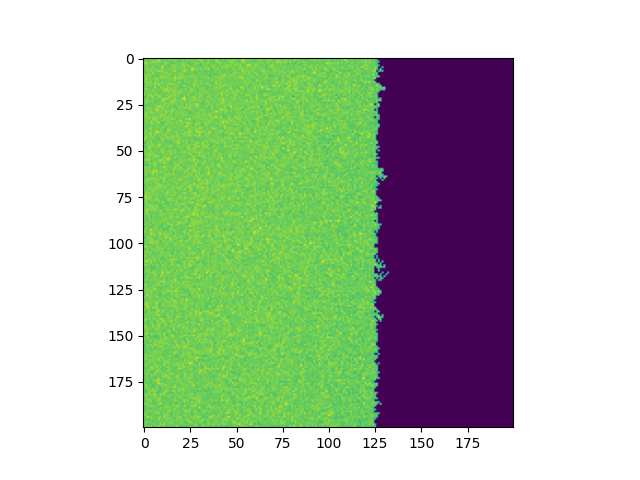
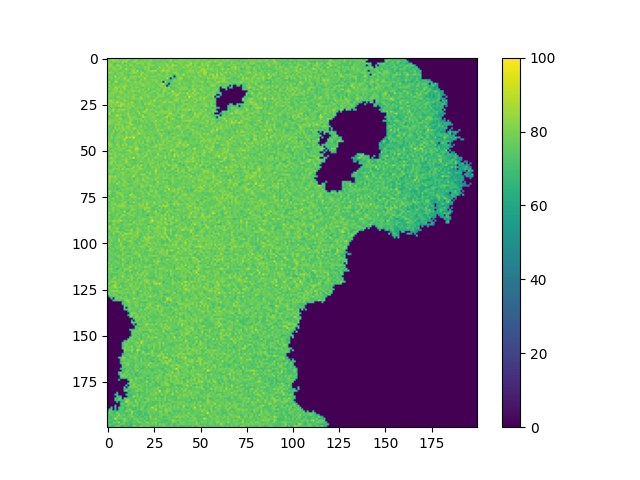
Added Agent class and fixed visualization.

Changed region(s): [[0.0938, 0.0938, 0.875, 0.9375]]

diff --git a/evo_island_main.py b/evo_island_main.py
@@ -6,31 +6,55 @@ import imageio
 
 level_difficulty = {1: 10, 2: 40, 3: 50, 4: 70, 5: 90}
 
-def visualize_matrix(matrix):
+class Agent:
+    def __init__(self, fitness=0, alive=False):
+        self.fitness = fitness
+        self.alive = alive if fitness > 0 else False
+
+    def is_more_fit_than(self, other):
+        return self.fitness > other.fitness
+
+
+#Matrix Creation, Visualization, Saving
+def visualize_world(matrix):
     fig, ax = plt.subplots()
     im = ax.imshow(matrix, cmap='viridis')
     plt.show()
+
+def visualize_agent_matrix(matrix):
+    fig, ax = plt.subplots()
+    im = ax.imshow([[cell.fitness for cell in row] for row in matrix], cmap='inferno')
+    plt.show() 
+
+def transform_matrix(agent_matrix, attribute):
+    return [[getattr(agent, attribute, 0) for agent in row] for row in agent_matrix]
 
 def save_matrix_image(matrix, file_name):
    fig, ax = plt.subplots()
    im = ax.imshow(matrix, cmap='viridis')
    plt.savefig(str(file_name))
+
+def save_agent_matrix_image(matrix, file_name, attribute):
+    # Check if the attribute is valid for the objects in the matrix
+    if not matrix or not hasattr(matrix[0][0], attribute):
+        raise ValueError(f"Attribute '{attribute}' not found in matrix elements")
+
+    # Transform the matrix into a 2D array of the specified attribute
+    transformed_matrix = [[getattr(cell, attribute) for cell in row] for row in matrix]
+
+    fig, ax = plt.subplots()
+    im = ax.imshow(transformed_matrix, cmap='viridis')
+    plt.colorbar(im, ax=ax)  # Optional: Adds a colorbar to the plot
+    plt.savefig(str(file_name))
+    plt.close(fig)
    
 
 def print_matrix(array_2d):
     for row in array_2d:
-        print(' '.join(str(cell) for cell in row))
+        print(' '.join(str(cell.fitness) for cell in row))
 
-def generate_agent_matrix(n):#Initialize empty agent matrix
- 
-    return [[0 for j in range(n)] for i in range(n)]
 
-def generate_island(n, use_perlin_noise=True, randomize_params=True, use_migration_route=True):
-    world = generate_terrain(n, use_perlin_noise, randomize_params)
-    if use_migration_route:
-       world = generate_river(n, world)
-
-    return world
+  #Terrain Generation
 
 def generate_petri_dish(n):
     if n <= 0:
@@ -115,6 +139,12 @@ def generate_river(n, world):
     # Return the world array
     return world
 
+def generate_island(n, use_perlin_noise=True, randomize_params=True, use_migration_route=True):
+    world = generate_terrain(n, use_perlin_noise, randomize_params)
+    if use_migration_route:
+       world = generate_river(n, world)
+
+    return world
 
 def isCoordinateInRange(n, x, y):
     if x < 0 or x >= n:
@@ -123,40 +153,44 @@ def isCoordinateInRange(n, x, y):
         return False
     return True
 
-def isMoreFit(challenger, Occupant):
-    return challenger > Occupant
-    
+#Agent Logic
+def isMoreFit(challenger, occupant):
+    return challenger.is_more_fit_than(occupant)
+
+def generate_agent_matrix(n):
+    return [[Agent() for j in range(n)] for i in range(n)]
+
 def train_new_individual():
     # generate a random number on a normal distribution
-    x = np.random.normal(loc=50, scale=10)
+    fitness = np.random.normal(loc=50, scale=10)
     # scale the number so that it falls within the range of 0 to 100
-    x = max(0, min(100, x))
+    fitness = max(0, min(100, fitness))
     # invert the number so that larger numbers are more rare
-    x = 100 - x
-    return int(x)
+    fitness = 100 - fitness
+    return Agent(int(fitness))
 
 def calc_move(i,j,n, world_matrix, agent_matrix):
    
-   if agent_matrix[i][j]== 0: # check if current cell is populated (max fitness is > 0), if not, do nothing. 
-    return 
-
-   #if occupied, the occupant spawns an offspring
+   current_agent = agent_matrix[i][j]
+   if current_agent.fitness == 0: return # Check if current cell is populated. if is not, skip. Add living or dead bool and update. 
+   
    newIndividual = train_new_individual()
+
 
    diceroll = random.randint(1, 9) #roll for which action the child will take
    #the offspring can move to an adacent valid cell, or challenge the parent for its niche
 
     #Stay at current cell and challenge parent
    if diceroll == 1:  
-    if newIndividual > level_difficulty[world_matrix[i][j]]: #Does the new invidual meet the baseline fitness to occupy the cell?
-        if isMoreFit(newIndividual,agent_matrix[i][j]): #Is the new individual's fitness higher than its parent? 
+    if newIndividual.fitness > level_difficulty[world_matrix[i][j]]: #Does the new invidual meet the baseline fitness to occupy the cell?
+        if newIndividual.is_more_fit_than(current_agent): #Is the new individual's fitness higher than its parent? 
             agent_matrix[i][j] = newIndividual #new individual takes the niche.
             #or nothing happens and it dies. 
 
     #go north
    if diceroll == 2: 
        if isCoordinateInRange(n,i+1,j): #Is the move in range? 
-          if newIndividual > level_difficulty[world_matrix[i+1][j]]: #Does the new invidual meet the baseline fitness to occupy the empty cell?
+          if newIndividual.fitness > level_difficulty[world_matrix[i+1][j]]: #Does the new invidual meet the baseline fitness to occupy the empty cell?
            if isMoreFit(newIndividual,agent_matrix[i+1][j]): #Does the new individual's fitness beat the fitness of the current occupant?
             agent_matrix[i+1][j] = newIndividual #new individual takes the niche. 
             #or nothing happens and it dies. 
@@ -164,7 +198,7 @@ def calc_move(i,j,n, world_matrix, agent_matrix):
     #go south
    if diceroll == 3: 
        if isCoordinateInRange(n,i-1,j): #Is the move in range?
-        if newIndividual > level_difficulty[world_matrix[i-1][j]]: #Does the new invidual meet the baseline fitness to occupy the empty cell?
+        if newIndividual.fitness > level_difficulty[world_matrix[i-1][j]]: #Does the new invidual meet the baseline fitness to occupy the empty cell?
            if isMoreFit(newIndividual,agent_matrix[i-1][j]):
             agent_matrix[i-1][j] = newIndividual #new individual takes the niche.
             #or nothing happens and it dies. 
@@ -172,7 +206,7 @@ def calc_move(i,j,n, world_matrix, agent_matrix):
     #go east
    if diceroll == 4:  
        if isCoordinateInRange(n,i,j+1): #Is the move in range?
-        if newIndividual > level_difficulty[world_matrix[i][j+1]]: #Does the new invidual meet the baseline fitness to occupy the empty cell?
+        if newIndividual.fitness > level_difficulty[world_matrix[i][j+1]]: #Does the new invidual meet the baseline fitness to occupy the empty cell?
            if isMoreFit(newIndividual,agent_matrix[i][j+1]):
             agent_matrix[i][j+1] = newIndividual #new individual takes the niche.
             #or nothing happens and it dies. 
@@ -180,7 +214,7 @@ def calc_move(i,j,n, world_matrix, agent_matrix):
     #go west
    if diceroll == 5:  
        if isCoordinateInRange(n,i,j-1): #Is the move in range?
-        if newIndividual > level_difficulty[world_matrix[i][j-1]]: #Does the new invidual meet the baseline fitness to occupy the empty cell?
+        if newIndividual.fitness > level_difficulty[world_matrix[i][j-1]]: #Does the new invidual meet the baseline fitness to occupy the empty cell?
            if isMoreFit(newIndividual,agent_matrix[i][j-1]):
             agent_matrix[i][j-1] = newIndividual #new individual takes the niche.
             #or nothing happens and it dies. 
@@ -188,7 +222,7 @@ def calc_move(i,j,n, world_matrix, agent_matrix):
     #go northeast
    if diceroll == 6:  
        if isCoordinateInRange(n,i+1,j+1): #Is the move in range?
-        if newIndividual > level_difficulty[world_matrix[i+1][j+1]]: #Does the new invidual meet the baseline fitness to occupy the empty cell?
+        if newIndividual.fitness > level_difficulty[world_matrix[i+1][j+1]]: #Does the new invidual meet the baseline fitness to occupy the empty cell?
            if isMoreFit(newIndividual,agent_matrix[i+1][j+1]):
             agent_matrix[i+1][j+1] = newIndividual #new individual takes the niche.
             #or nothing happens and it dies. 
@@ -196,7 +230,7 @@ def calc_move(i,j,n, world_matrix, agent_matrix):
     #go northwest
    if diceroll == 7:  
        if isCoordinateInRange(n,i+1,j-1): #Is the move in range?
-        if newIndividual > level_difficulty[world_matrix[i+1][j-1]]: #Does the new invidual meet the baseline fitness to occupy the empty cell?
+        if newIndividual.fitness > level_difficulty[world_matrix[i+1][j-1]]: #Does the new invidual meet the baseline fitness to occupy the empty cell?
            if isMoreFit(newIndividual,agent_matrix[i+1][j-1]):
             agent_matrix[i+1][j-1] = newIndividual #new individual takes the niche.
             #or nothing happens and it dies. 
@@ -204,7 +238,7 @@ def calc_move(i,j,n, world_matrix, agent_matrix):
     #go southeast
    if diceroll == 8:  
        if isCoordinateInRange(n,i-1,j+1): #Is the move in range?
-        if newIndividual > level_difficulty[world_matrix[i-1][j+1]]: #Does the new invidual meet the baseline fitness to occupy the empty cell?
+        if newIndividual.fitness > level_difficulty[world_matrix[i-1][j+1]]: #Does the new invidual meet the baseline fitness to occupy the empty cell?
            if isMoreFit(newIndividual,agent_matrix[i-1][j+1]):
             agent_matrix[i-1][j+1] = newIndividual #new individual takes the niche.
             #or nothing happens and it dies. 
@@ -212,7 +246,7 @@ def calc_move(i,j,n, world_matrix, agent_matrix):
     #go southwest
    if diceroll == 9:  
        if isCoordinateInRange(n,i-1,j-1): #Is the move in range?
-        if newIndividual > level_difficulty[world_matrix[i-1][j-1]]: #Does the new invidual meet the baseline fitness to occupy the empty cell?
+        if newIndividual.fitness > level_difficulty[world_matrix[i-1][j-1]]: #Does the new invidual meet the baseline fitness to occupy the empty cell?
            if isMoreFit(newIndividual,agent_matrix[i-1][j-1]):
             agent_matrix[i-1][j-1] = newIndividual #new individual takes the niche.
             #or nothing happens and it dies.       
@@ -222,16 +256,16 @@ def run_game():
 
     
     # configurable parameters, change as needed
-    map_size = 200
-    simulation_steps = 500
+    map_size = 500
+    simulation_steps = 1000
     use_perlin_noise = True  # set to False to use random integer generation instead
     use_random_params = False # set to False to use preset perlin parameters
     use_rivers = True # set to False to remove rivers
 
     #game initialization
     agent_starting_pos = 0,0
-    #game_world = generate_island (map_size, use_perlin_noise, use_random_params, use_rivers)
-    game_world = generate_petri_dish(map_size)
+    game_world = generate_island (map_size, use_perlin_noise, use_random_params, use_rivers)
+    #game_world = generate_petri_dish(map_size)
     agent_matrix = generate_agent_matrix(map_size)
 
     #place initial agent
@@ -248,7 +282,7 @@ def run_game():
     print ("Simulation Steps:" + str(simulation_steps))
     print ("\n")
     #print ("Displaying Game_World in console.")
-    visualize_matrix(game_world)
+    visualize_world(game_world)
     save_matrix_image(game_world, 'Game_World')
     
     frames = [] # array to save images of the heatmap
@@ -263,14 +297,27 @@ def run_game():
                 calc_move(i,j,map_size,game_world,agent_matrix)   
 
         current_sim_step += 1
-        im = plt.imshow(agent_matrix, cmap='viridis')
-        frames.append(im.get_array())
+        # Transform the agent_matrix into a numerical matrix for the 'fitness' attribute
+        fitness_matrix = transform_matrix(agent_matrix, 'fitness')
+
+        # Create the frame
+        fig, ax = plt.subplots()
+        im = ax.imshow(fitness_matrix, cmap='inferno')
+        ax.axis('off')  # Optional: Turn off the axis
+
+        # Draw canvas and convert to an image array
+        fig.canvas.draw()
+        image = np.frombuffer(fig.canvas.tostring_rgb(), dtype='uint8')
+        image = image.reshape(fig.canvas.get_width_height()[::-1] + (3,))
+
+        frames.append(image)
+        plt.close(fig)
    
 
     #print final state
     #print ("Displaying Final_Map_State in console.")
     #visualize_matrix(agent_matrix)
-    save_matrix_image(agent_matrix, 'Final_Game_State')
+    save_agent_matrix_image(agent_matrix, 'Final_Game_State', 'fitness')
     
     #Create gif of execution
     print ("Generating gif...")
